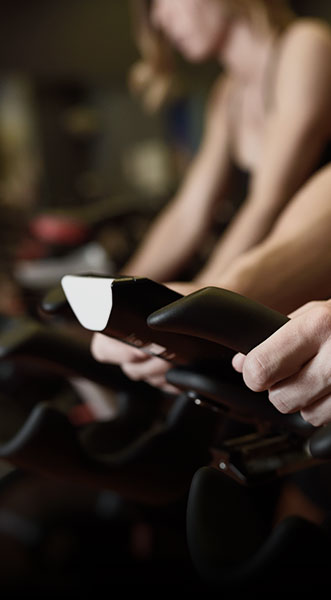
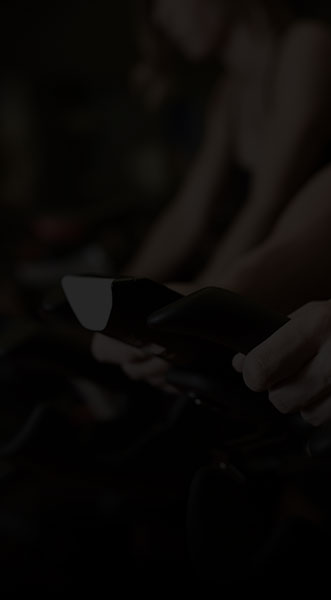
фотки на главной

diff --git a/_assets/css/style.css b/_assets/css/style.css
@@ -469,7 +469,7 @@ html, body {
       transform: scale(1.05);
       box-shadow: 0 55px 30px -50px rgba(0, 0, 0, 0.5); }
     .programs__link--is-fuse {
-      background-image: url(../img/_programs/fuse_coming_bg.jpg); }
+      background-image: url(../img/_programs/fuse_bg.jpg); }
     .programs__link--is-trx {
       background-image: url(../img/_programs/trx_bg.jpg); }
     .programs__link--is-barre {

diff --git a/_assets/css/__modules/_programs.scss b/_assets/css/__modules/_programs.scss
@@ -63,7 +63,7 @@
     
     &--is{
       &-fuse {
-        background-image: url(../img/_programs/fuse_coming_bg.jpg);
+        background-image: url(../img/_programs/fuse_bg.jpg);
       }
       &-trx {
         background-image: url(../img/_programs/trx_bg.jpg);
